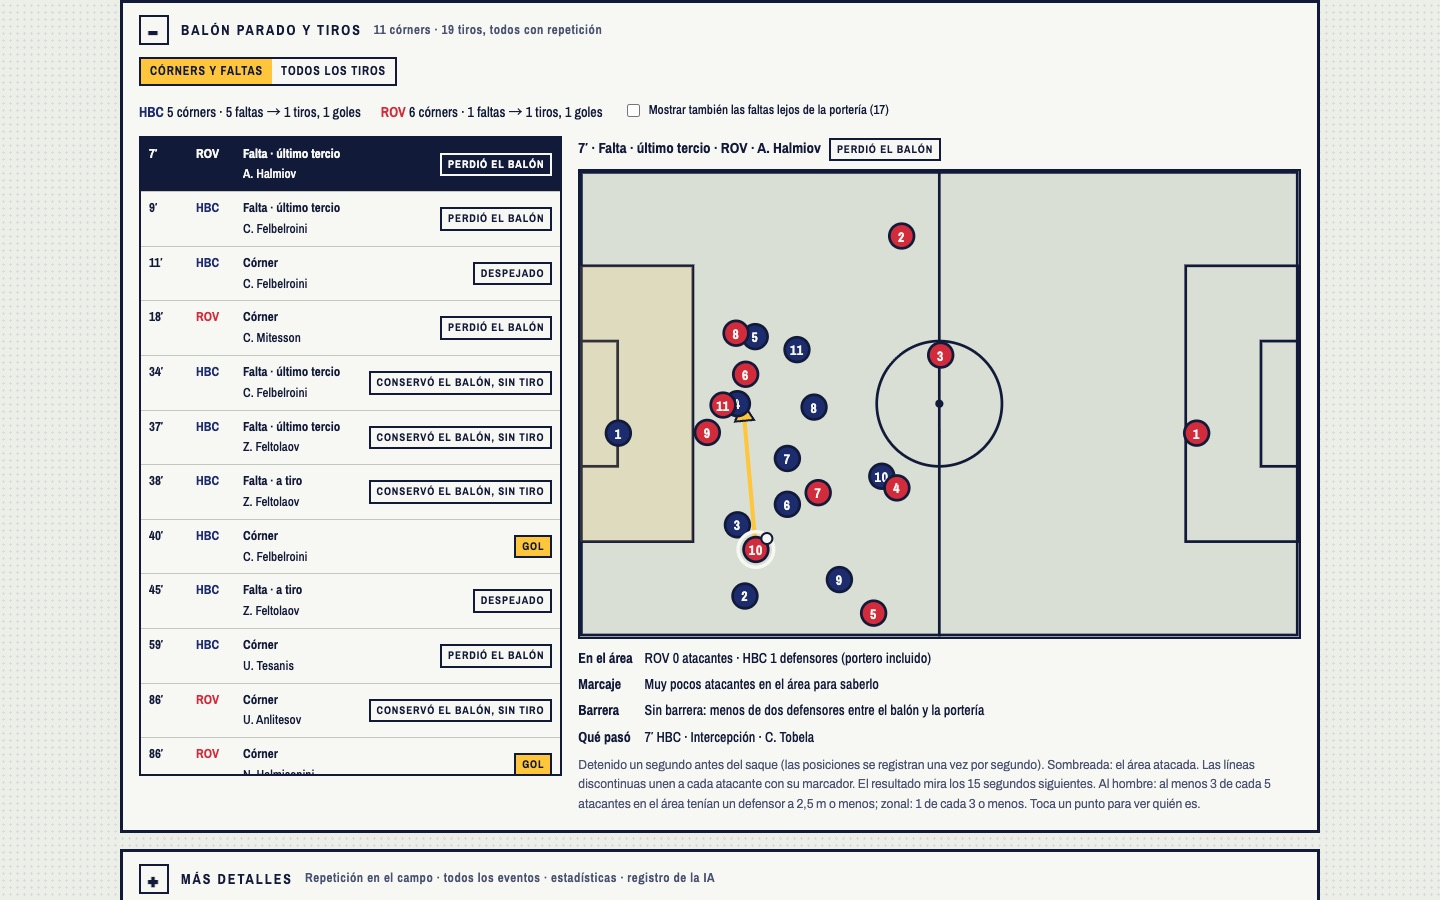
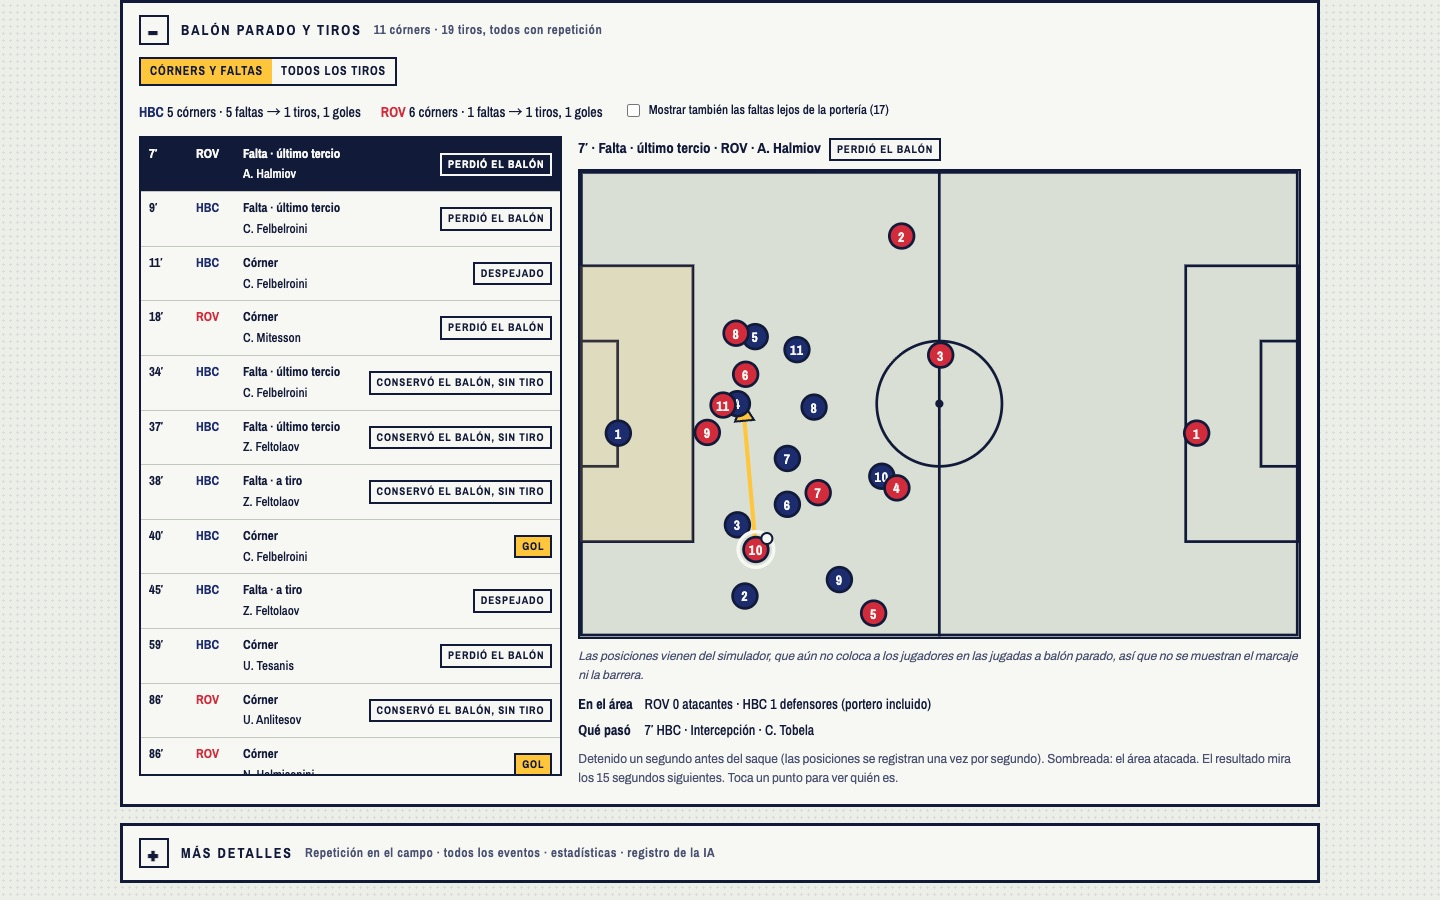
Ax44: hide marking and wall until the simulator lines up set pieces (#245), with a note under the pitch
SHOW_MARKING turns off the marking and wall rows, the marker lines and the wall bar; the code
stays. A short note in en/zh/es says the positions are simulated and set-piece positioning
is not in yet; the how-it-works text drops the marking rule while it is off.

Changed region(s): [[0.0625, 0.7156, 0.9375, 0.9956]]

diff --git a/apps/web/src/components/SetPieces.tsx b/apps/web/src/components/SetPieces.tsx
@@ -21,6 +21,8 @@ import Segmented from "./Segmented";
 import "../styles/setpieces.css";
 
 const S = 5;
+/** Off until the simulator lines players up for set pieces (#245): its marking and walls are not real yet. */
+const SHOW_MARKING = false;
 const HASHES = ["#set-pieces", "#shots"] as const;
 type Tab = "set" | "shots";
 
@@ -126,8 +128,8 @@ function SetPieceView({ sp }: { sp: SetPiece }) {
       <Pitch frame={frame} actions={[sp.event]} selected={null} who={people.who} stepMs={1}
         label={t("sp.pitchLabel", { minute: `${at(sp.event.t)}′` })}
         picked={pickedPlayer} onPick={setPickedPlayer} tag={people.tag}
-        marked={new Set(setup.pairs.flat())}
-        under={<SetupLayer frame={frame} sp={sp} pairs={setup.pairs} wall={setup.wall} />} />
+        marked={SHOW_MARKING ? new Set(setup.pairs.flat()) : undefined}
+        under={<SetupLayer frame={frame} sp={sp} pairs={SHOW_MARKING ? setup.pairs : []} wall={SHOW_MARKING ? setup.wall : []} />} />
     );
   }
 
@@ -137,16 +139,21 @@ function SetPieceView({ sp }: { sp: SetPiece }) {
         {at(sp.event.t)}′ · {kindLabel(sp, t)} · {att} · {playerName(sp.event.player_id)} <Result r={sp.result} />
       </h4>
       {pitch}
+      {!SHOW_MARKING && <small className="sp-sim">{t("sp.simNote")}</small>}
       {setup && (
         <dl className="sp-facts">
           <dt>{t("sp.inBox")}</dt>
           <dd>{t("sp.inBoxVal", { att, n: setup.attackersInBox.length, def, m: setup.defendersInBox.length })}</dd>
-          <dt>{t("sp.marking")}</dt>
-          <dd>
-            {setup.marking ? <b>{t(`sp.marking.${setup.marking}` as MessageKey)}</b> : t("sp.marking.few")}
-            {setup.marking && <small> · {t("sp.markingWhy", { k: setup.pairs.length, n: setup.attackersInBox.length, m: MARK_M })}</small>}
-          </dd>
-          {sp.kind === "free_kick" && (
+          {SHOW_MARKING && (
+            <>
+              <dt>{t("sp.marking")}</dt>
+              <dd>
+                {setup.marking ? <b>{t(`sp.marking.${setup.marking}` as MessageKey)}</b> : t("sp.marking.few")}
+                {setup.marking && <small> · {t("sp.markingWhy", { k: setup.pairs.length, n: setup.attackersInBox.length, m: MARK_M })}</small>}
+              </dd>
+            </>
+          )}
+          {SHOW_MARKING && sp.kind === "free_kick" && (
             <>
               <dt>{t("sp.wall")}</dt>
               <dd>{setup.wall.length ? t("sp.wallVal", { n: setup.wall.length, who: names(setup.wall) }) : t("sp.wallNone")}</dd>
@@ -156,7 +163,7 @@ function SetPieceView({ sp }: { sp: SetPiece }) {
           <dd>{sp.decidedBy ? `${at(sp.decidedBy.t)}′ ${teams[sp.decidedBy.team].short_name} · ${describe(sp.decidedBy, playerName, t)}` : t("sp.result.kept")}</dd>
         </dl>
       )}
-      <small className="muted">{t("sp.how")}</small>
+      <small className="muted">{t(SHOW_MARKING ? "sp.how" : "sp.howPlain")}</small>
     </div>
   );
 }

diff --git a/apps/web/src/i18n/messages/es.ts b/apps/web/src/i18n/messages/es.ts
@@ -458,6 +458,8 @@ export const es: Messages = {
   "sp.wallNone": "Sin barrera: menos de dos defensores entre el balón y la portería",
   "sp.then": "Qué pasó",
   "sp.how": "Detenido un segundo antes del saque (las posiciones se registran una vez por segundo). Sombreada: el área atacada. Las líneas discontinuas unen a cada atacante con su marcador. El resultado mira los 15 segundos siguientes. Al hombre: al menos 3 de cada 5 atacantes en el área tenían un defensor a 2,5 m o menos; zonal: 1 de cada 3 o menos. Toca un punto para ver quién es.",
+  "sp.howPlain": "Detenido un segundo antes del saque (las posiciones se registran una vez por segundo). Sombreada: el área atacada. El resultado mira los 15 segundos siguientes. Toca un punto para ver quién es.",
+  "sp.simNote": "Las posiciones vienen del simulador, que aún no coloca a los jugadores en las jugadas a balón parado, así que no se muestran el marcaje ni la barrera.",
   "shots.none": "Todavía no hay tiros.",
   "shots.noneHere": "No hay tiros de este tipo.",
   "shots.filter": "De dónde vino el tiro",

diff --git a/apps/web/src/i18n/messages/en.ts b/apps/web/src/i18n/messages/en.ts
@@ -457,6 +457,8 @@ export const en = {
   "sp.wallNone": "No wall: fewer than two defenders between the ball and the goal",
   "sp.then": "What happened",
   "sp.how": "Stopped one second before the kick (positions are recorded once a second). Shaded: the box being attacked. Dashed lines join each attacker to their marker. The result follows the next 15 seconds. Man-to-man means at least 3 in 5 attackers in the box had a defender within 2.5 m; zonal, 1 in 3 or fewer. Tap a dot to see who it is.",
+  "sp.howPlain": "Stopped one second before the kick (positions are recorded once a second). Shaded: the box being attacked. The result follows the next 15 seconds. Tap a dot to see who it is.",
+  "sp.simNote": "Player positions come from the simulator, which does not yet line players up for set pieces, so marking and walls are not shown.",
   "shots.none": "No shots yet.",
   "shots.noneHere": "No shots of this kind.",
   "shots.filter": "Where the shot came from",

diff --git a/apps/web/src/i18n/messages/zh.ts b/apps/web/src/i18n/messages/zh.ts
@@ -456,6 +456,8 @@ export const zh: Messages = {
   "sp.wallNone": "没有人墙：球和球门之间不到两名防守球员",
   "sp.then": "结果",
   "sp.how": "停在开球前一秒（球员位置每秒记录一次）。浅色是被进攻的禁区，虚线连着每名进攻球员和盯他的人。结果看开球后 15 秒内发生了什么。禁区里至少五分之三的进攻球员身边 2.5 米内有防守球员，算人盯人；三分之一或更少，算区域防守。点圆点能看是谁。",
+  "sp.howPlain": "停在开球前一秒（球员位置每秒记录一次）。浅色是被进攻的禁区。结果看开球后 15 秒内发生了什么。点圆点能看是谁。",
+  "sp.simNote": "球员站位来自模拟数据，模拟器还没有加入定位球的站位规则，所以先不显示防守方式和人墙。",
   "shots.none": "还没有射门。",
   "shots.noneHere": "没有这一类的射门。",
   "shots.filter": "射门来自哪里",

diff --git a/apps/web/src/styles/setpieces.css b/apps/web/src/styles/setpieces.css
@@ -46,6 +46,7 @@
 .sp-facts dd { margin: 0; }
 .sp-facts small { color: var(--pv-ink-2); }
 .sp-view > small, .clip > small { font-size: 12px; }
+.sp-view > .sp-sim { color: var(--pv-ink-2); font-style: italic; }
 
 .pitch .sp-box { fill: var(--pv-gold); fill-opacity: .14; stroke: none; }
 .pitch .sp-pair { stroke: var(--pv-ink); stroke-width: 2; stroke-dasharray: 4 3; }
